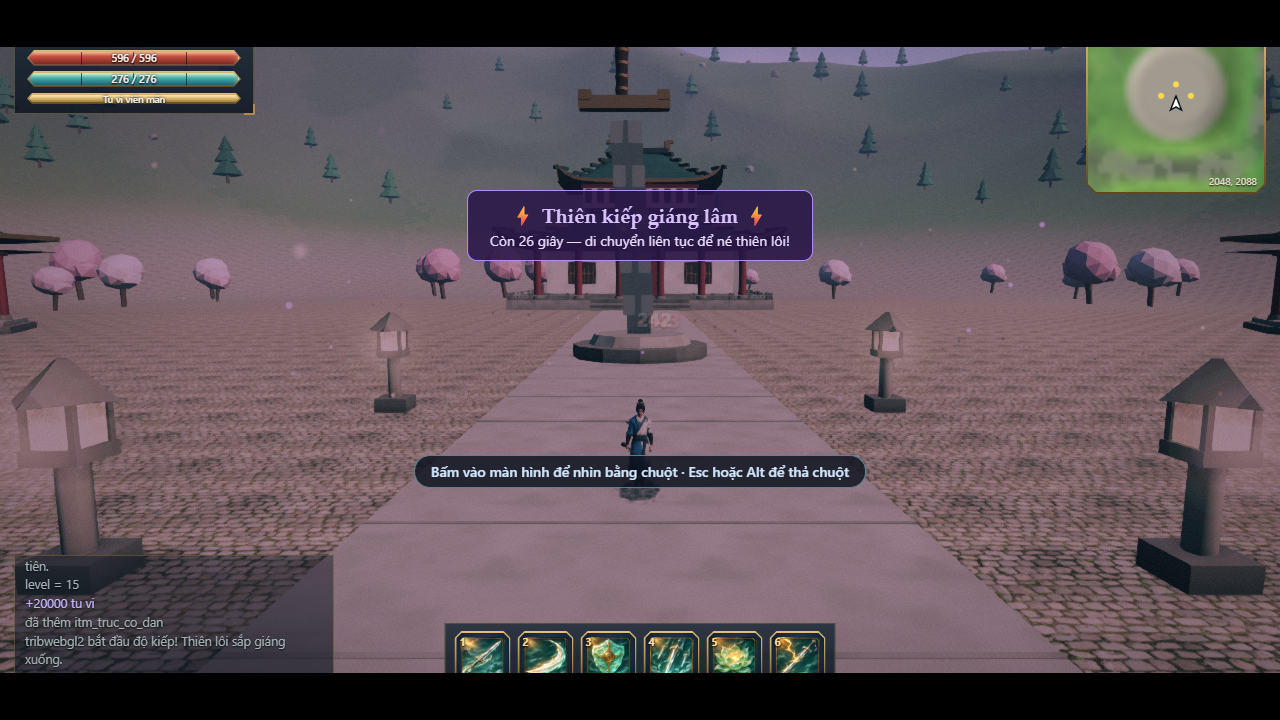
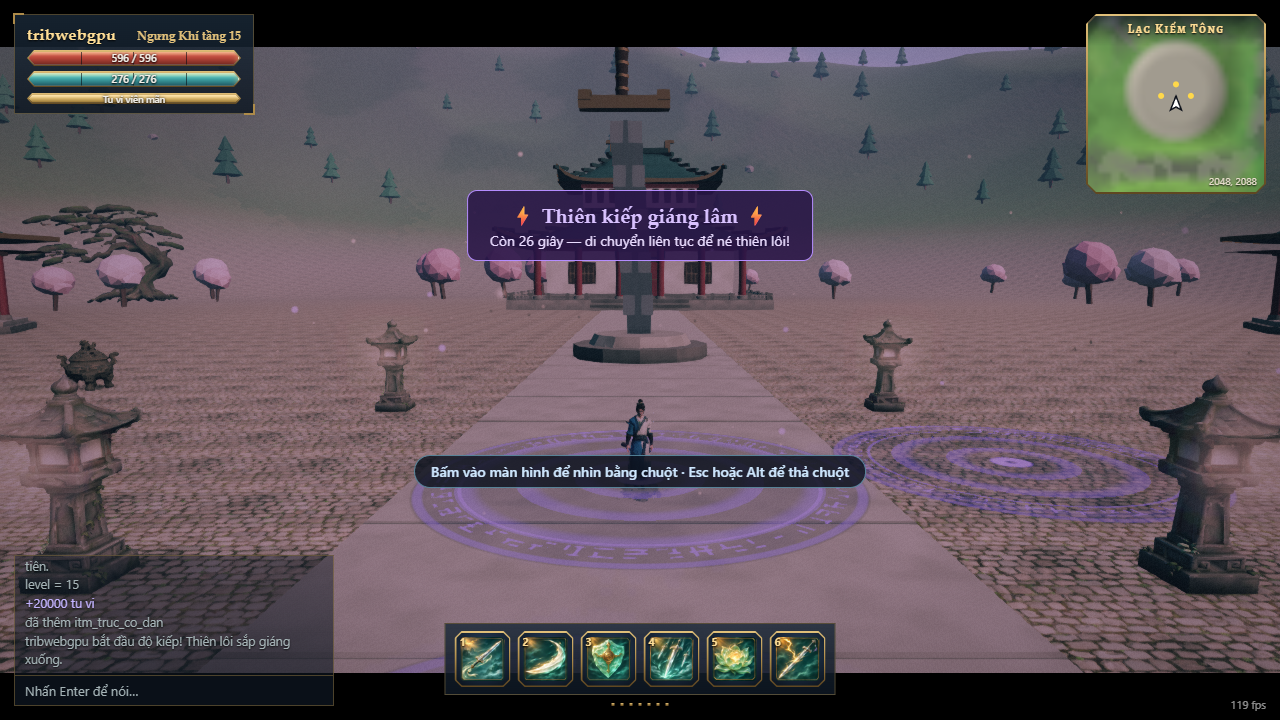
fix(client): P2-B4 letterbox độ kiếp render đầu .hud, bỏ z-index để HUD vẽ đè

diff --git a/apps/client/src/ui/Hud.tsx b/apps/client/src/ui/Hud.tsx
@@ -430,13 +430,22 @@ function Tribulation() {
   const now = useNow(250);
   if (!tribEnd || now >= tribEnd) return null;
   return (
+    <div className="trib">
+      <div className="trib-title">⚡ {t('ui.trib.title')} ⚡</div>
+      <div>{t('ui.trib.left', { n: Math.ceil((tribEnd - now) / 1000) })}</div>
+    </div>
+  );
+}
+
+/** Letterbox mỏng suốt cảnh độ kiếp. Đặt đầu `.hud` (không z-index) để mọi khung HUD sau nó vẽ đè lên dải đen. */
+function TribBars() {
+  const tribEnd = useUI((s) => s.tribEnd);
+  const now = useNow(250);
+  if (!tribEnd || now >= tribEnd) return null;
+  return (
     <>
       <div className="trib-bar trib-bar-top" />
       <div className="trib-bar trib-bar-bot" />
-      <div className="trib">
-        <div className="trib-title">⚡ {t('ui.trib.title')} ⚡</div>
-        <div>{t('ui.trib.left', { n: Math.ceil((tribEnd - now) / 1000) })}</div>
-      </div>
     </>
   );
 }
@@ -554,6 +563,7 @@ export function Hud() {
   const cining = useUI((s) => s.cine !== null && !s.cine.out);
   return (
     <div className={'hud' + (hasBoss ? ' with-boss' : '') + (cining ? ' cining' : '')} data-cut={cut}>
+      <TribBars />
       <PlayerFrame />
       <CineView />
       <ChapterCardView />

diff --git a/apps/client/src/styles.css b/apps/client/src/styles.css
@@ -803,7 +803,7 @@ kbd {
   border-radius: 10px;
   color: #e9dcff;
 }
-/* Letterbox mỏng suốt cảnh độ kiếp (không che HUD: người độ kiếp còn phải né sét). */
+/* Letterbox mỏng suốt cảnh độ kiếp. Không z-index và render đầu `.hud` nên HUD (máu, kỹ năng, bản đồ, chat) vẽ đè lên dải đen. */
 .trib-bar {
   position: fixed;
   left: 0;
@@ -811,7 +811,6 @@ kbd {
   height: 6.5vh;
   background: #000;
   pointer-events: none;
-  z-index: 1;
   animation: trib-bar-in 1.2s ease-out both;
 }
 .trib-bar-top {
